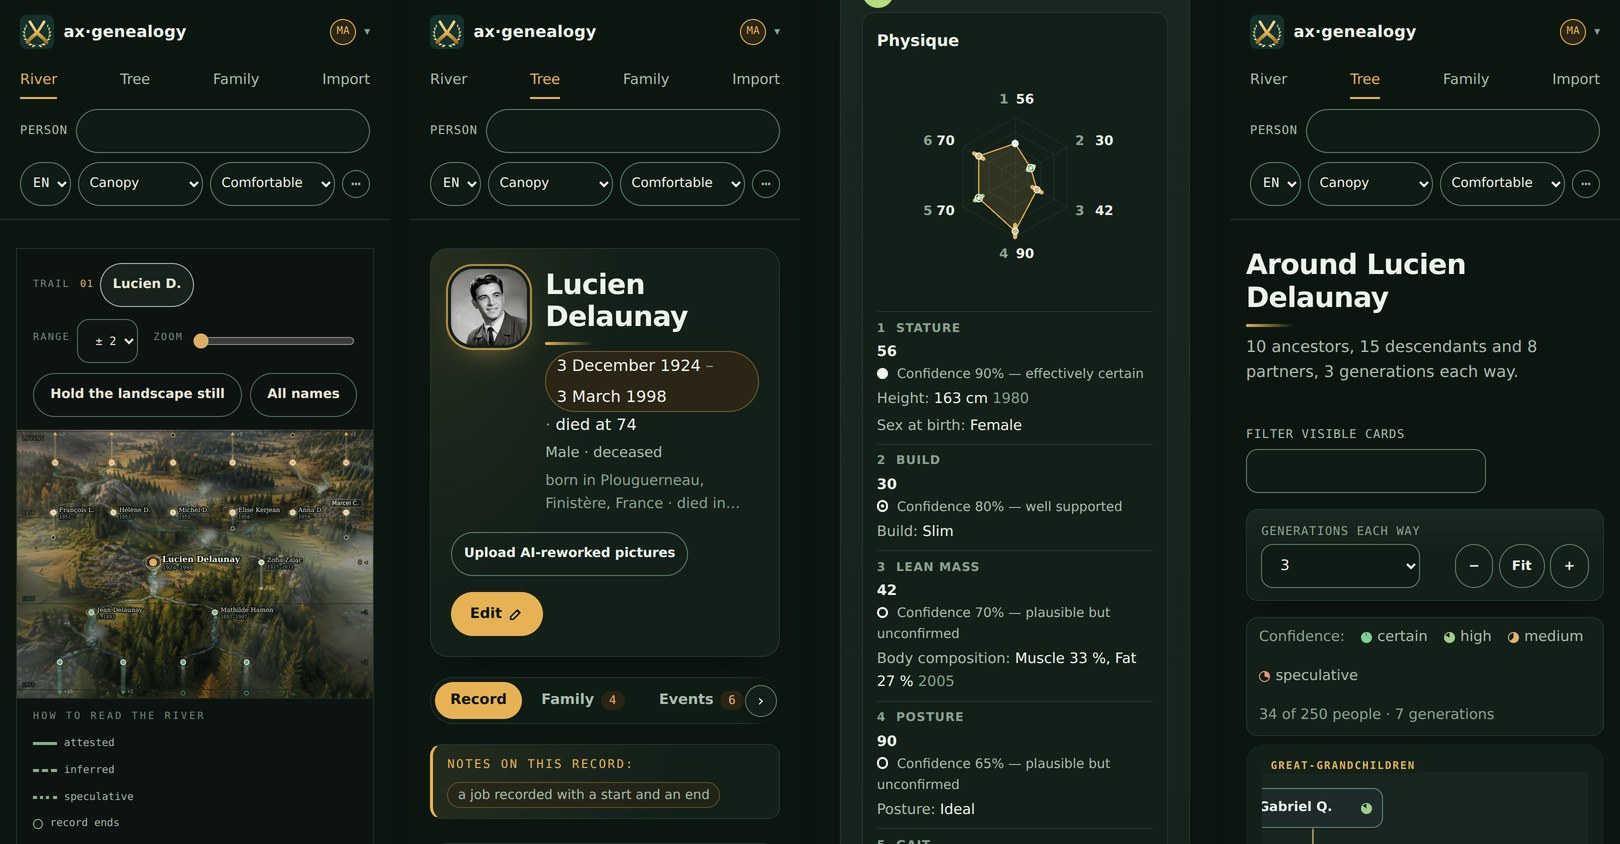
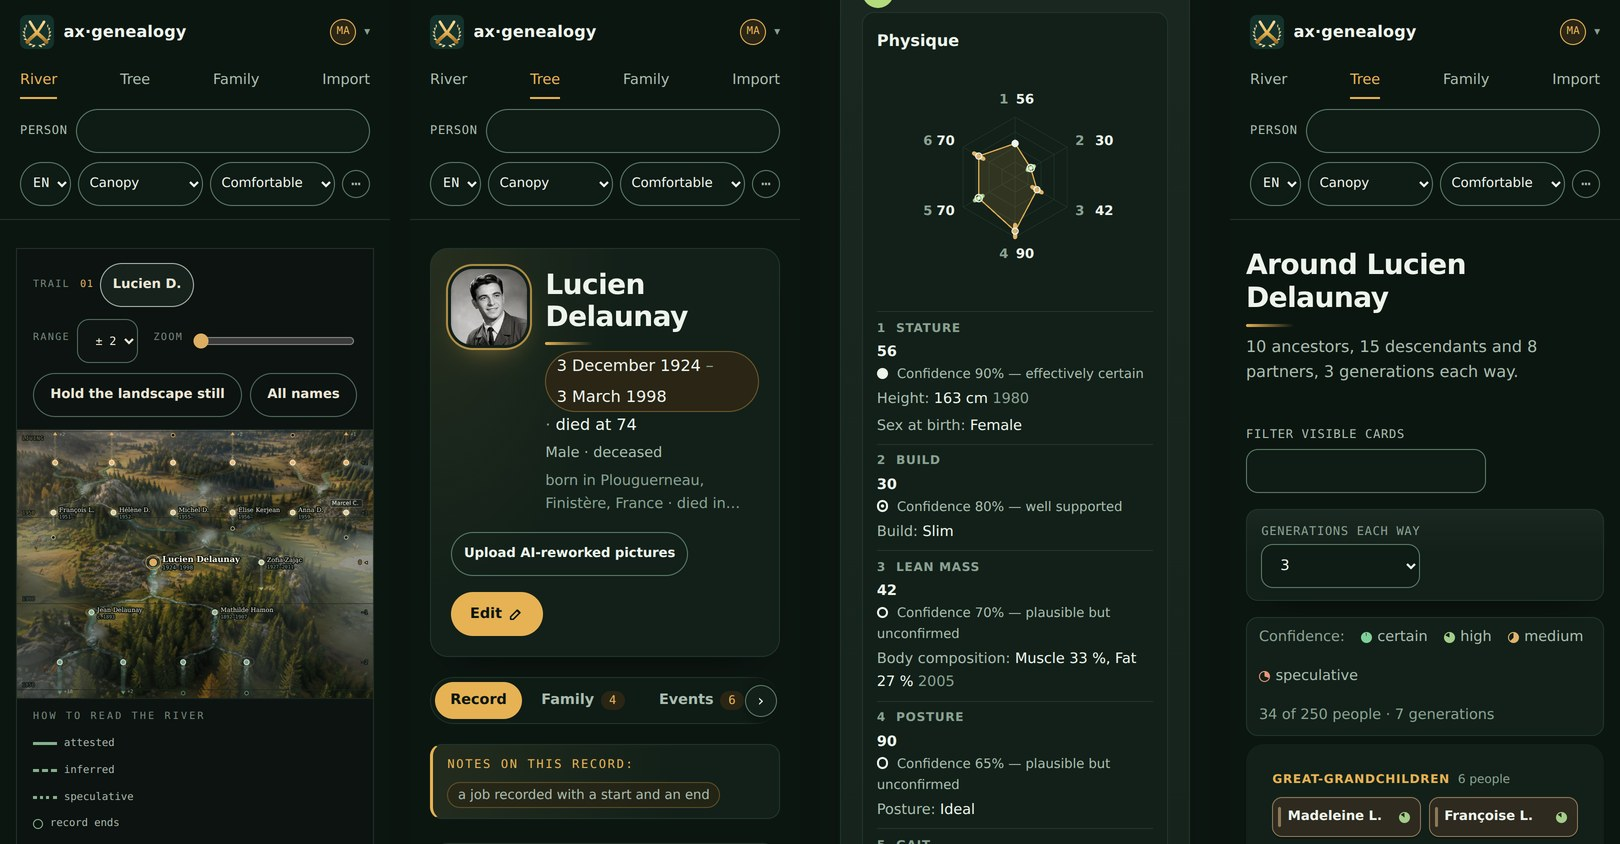
On a phone: the tree as a column of generations, and a tap on a person names them
The operator's review the same evening, on a phone: the tree ran off the
screen sideways, and the mesh could not be clicked.

- The tree page under 640 px (docs/adr/0019 §6). The chart drops its
  lines, zones and column of names, and becomes a column of generations:
  each one a block with its name and count, its cards two to a line, the
  person's own block outlined. Nothing scrolls sideways. An open card is
  a sheet at the foot of the screen, and the zoom is hidden. On a wide
  screen each generation's `.tree-row` is display: contents, so the chart
  is unchanged.
- Every view, on a touch screen (docs/adr/0002 §6). A first tap on a
  person used to light their route only, which looked like nothing
  happening. Now their full name and years also show under the drawing,
  with "Centre here" and "Open full page" (the second hidden for a person
  the reader may not see). The bar stays at the foot of the screen while
  the drawing is in view. A second tap still travels, and a tap on open
  water or any travel puts the bar away. New words: river-pick-centre in
  the fourteen languages.
- README: the phone sheet shows the tree's column.

Changed region(s): [[0.7716, 0.8934, 0.9877, 1.0], [0.9259, 0.6469, 0.9568, 0.6777]]

diff --git a/static/app.css b/static/app.css
@@ -1512,19 +1512,71 @@ abbr.presumed { text-decoration: none; }
   -webkit-backdrop-filter: blur(6px);
   backdrop-filter: blur(6px);
 }
-/* On a phone the row names are small tags above their rows, not a column
-   that would hide a third of the screen. */
+/* A generation's block (_tree_canvas.html): no box at all on a wide
+   screen, where every card stands where the layout put it. */
+.tree-row { display: contents; }
+.tree-row-name { display: none; }
+/* A phone (the operator's review, 2026-10-27: the tree ran off the screen
+   sideways). The chart becomes a column of generations, the newest at the
+   top and the oldest at the foot as the chart has them, the person's own
+   in the middle. Its lines, zones and column of names give way to each
+   block's own name; the cards stand two to a line and the canvas takes the
+   column's width, so nothing scrolls sideways. An open card is a sheet at
+   the foot of the screen. */
 @media (max-width: 640px) {
-  .tree-gutter .band-label.relative {
-    block-size: auto !important;
-    inline-size: auto;
-    max-inline-size: 70vw;
-    flex-direction: row;
-    padding: 0.12rem 0.55rem;
-    transform: translateY(-30px);
-    white-space: nowrap;
+  .tree-scroll {
+    position: static;
+    overflow: visible;
+    will-change: auto;
+    padding-bottom: 0;
   }
-  .tree-gutter .band-label.relative span { display: none; }
+  .tree-scroll .tree-canvas {
+    inline-size: auto !important;
+    block-size: auto !important;
+    display: flex;
+    flex-direction: column;
+    gap: 0.6rem;
+  }
+  .tree-canvas :is(.tree-wires, .band-zone, .tree-gutter),
+  .tree-canvas > .band-label { display: none; }
+  .tree-row {
+    display: grid;
+    grid-template-columns: repeat(2, minmax(0, 1fr));
+    gap: 0.5rem;
+    padding: 0.6rem 0.65rem 0.7rem;
+    border: 1px solid var(--border);
+    border-radius: 14px;
+    background: color-mix(in srgb, var(--surface-raised) 55%, transparent);
+  }
+  .tree-row.is-centre { border-color: color-mix(in srgb, var(--accent) 55%, var(--border)); }
+  .tree-row-name {
+    display: flex;
+    flex-wrap: wrap;
+    align-items: baseline;
+    gap: 0.15rem 0.5rem;
+    grid-column: 1 / -1;
+    margin: 0;
+    font-size: var(--type-label);
+    letter-spacing: 0.06em;
+    text-transform: uppercase;
+    color: var(--text-tertiary);
+  }
+  .tree-row-name strong { color: var(--accent); font-weight: var(--weight-semi); }
+  .tree-row-name .muted { letter-spacing: 0; text-transform: none; }
+  .tree-row .tcard {
+    position: relative;
+    inset: auto !important;
+    inline-size: auto !important;
+    width: auto !important;
+  }
+  .tree-row .tcard .tc-more,
+  .tree-row .tcard:is(:hover, :focus-within, .is-open) .tc-more {
+    position: fixed;
+    inset: auto 12px 12px 12px !important;
+    inline-size: auto;
+    transform: none !important;
+  }
+  .tc-zoom { display: none; }
 }
 .tc-zoom { display: flex; gap: 0.35rem; align-items: flex-end; margin-inline-start: auto; }
 .tc-zoom .btn { min-inline-size: 2.4rem; }
@@ -4179,6 +4231,27 @@ input::placeholder, textarea::placeholder { color: var(--text-tertiary); opacity
 .rv-canvas { flex: 0 0 auto; }
 .rv-canvas svg { display: block; }
 .rv-canvas .rv-p { cursor: pointer; }
+/* The person a tap looked at (river.js, 2026-10-27): named under the
+   drawing with the two ways on, kept at the foot of the screen while the
+   drawing above it is in view. */
+.rv-pick {
+  position: sticky;
+  inset-block-end: 0;
+  z-index: 5;
+  display: flex;
+  flex-wrap: wrap;
+  align-items: center;
+  justify-content: space-between;
+  gap: 0.5rem 0.75rem;
+  padding: 0.7rem 0.9rem;
+  background: var(--surface-raised);
+  border-block-start: 1px solid var(--border-strong);
+  box-shadow: 0 -12px 26px -20px rgb(var(--shadow-rgb) / 0.7);
+}
+.rv-pick-who { margin: 0; min-inline-size: 0; }
+.rv-pick-who strong { font-weight: var(--weight-semi); color: var(--text-primary); }
+.rv-pick-years { color: var(--text-secondary); font-size: var(--type-small); font-variant-numeric: tabular-nums; }
+.rv-pick-go { display: flex; flex-wrap: wrap; gap: 0.5rem; }
 /* The drawing's inks. src/river.rs (and river.js, its port for frames in
    motion) mark each non-water colour with a class; the colours themselves
    are the river's palette in tokens.css. */

diff --git a/static/river.js b/static/river.js
@@ -754,6 +754,8 @@
     n = n || cur.layout.meta.n;
     if (busy || (id === cur.layout.meta.centre && n === cur.layout.meta.n)) return;
     busy = true;
+    // A person a tap looked at is no longer the one in question.
+    if (pick) { pick.hidden = true; picked = null; looked = null; }
     // Where the river is going, ripples (the reference's loader), if the
     // answer is slow enough to be waited for. The first frame of the travel
     // takes them away.
@@ -891,6 +893,29 @@
   // route from the centre and shows their dropped label — and a second tap
   // on the same person travels there. A tap on open water clears it.
   var looked = null;
+  // What the tap looked at, named under the drawing with the two ways on
+  // (2026-10-27): centre the drawing on them, or open their record.
+  var pick = root.querySelector('[data-rv-pick]'), picked = null;
+  var pickName = pick && pick.querySelector('[data-rv-pick-name]'), pickYears = pick && pick.querySelector('[data-rv-pick-years]');
+  var pickCentre = pick && pick.querySelector('[data-rv-pick-centre]'), pickOpen = pick && pick.querySelector('[data-rv-pick-open]');
+  function showPick(id) {
+    picked = id;
+    if (!pick) return;
+    var p = id && here.persons.filter(function (q) { return q.id === id; })[0];
+    if (!p) { pick.hidden = true; return; }
+    var s = p.s || {};
+    pickName.textContent = s.redacted ? privateWord : (s.names && s.names[2]) || '';
+    pickYears.textContent = s.redacted ? '' : s.years || '';
+    pickOpen.hidden = !!s.redacted;
+    pickOpen.setAttribute('href', '/person/' + encodeURIComponent(id));
+    pick.hidden = false;
+  }
+  if (pickCentre) pickCentre.addEventListener('click', function () {
+    var id = picked;
+    looked = null;
+    showPick(null);
+    if (id) travel(id);
+  });
   canvas.addEventListener('click', function (e) {
     // The click a drag or a pinch ends with is not a choice of person.
     if (performance.now() - dragged < 400) { e.preventDefault(); return; }
@@ -898,16 +923,18 @@
     var id = a ? a.getAttribute('data-id') : touch ? nearest(e) : null;
     if (touch && !busy) {
       e.preventDefault();
-      if (!id) { looked = null; light(null); return; }
+      if (!id) { looked = null; light(null); showPick(null); return; }
       if (id !== looked) {
         looked = id;
         var p = here.persons.filter(function (q) { return q.id === id; })[0];
         light(a ? a.getAttribute('data-key') : p && p.key);
+        showPick(id);
         return;
       }
     }
     if (!id) return;
     looked = null;
+    showPick(null);
     e.preventDefault(); travel(id);
   });
   // Hover is a mouse's (or a pen's): a finger's taps are handled above, and

diff --git a/templates/river.html b/templates/river.html
@@ -100,6 +100,17 @@
     {% endif %}
     <div class="rv-canvas" id="rv-canvas" data-content>{{ svg|safe }}
     </div>
+    {#- On a touch screen a first tap on a person looks at them: their route
+        is lit, and here, under the drawing, their name and the two ways on
+        (2026-10-27) — a finger has no hover, and a lit route alone looked
+        like nothing happening. river.js fills it and shows it. -#}
+    <div class="rv-pick" data-rv-pick hidden>
+      <p class="rv-pick-who"><strong data-rv-pick-name></strong> <span class="rv-pick-years" data-rv-pick-years></span></p>
+      <div class="rv-pick-go">
+        <button type="button" class="btn small" data-rv-pick-centre>{{ t("river-pick-centre") }}</button>
+        <a class="btn small" data-rv-pick-open href="/person/{{ centre_q }}">{{ t("record-open-full-page") }}</a>
+      </div>
+    </div>
 
     <div class="rv-legend" role="note" aria-labelledby="rv-legend-title">
       {#- A cartographer's legend (v0.5.0, docs/adr/0004 §5): a title, the

diff --git a/templates/_tree_canvas.html b/templates/_tree_canvas.html
@@ -62,6 +62,13 @@
         <span class="muted">{{ band.sublabel }}</span>
       </div>
       {%- endif %}
+      {#- The generation's people. On a wide screen this box is no box at all
+          (display: contents) and every card stands where the layout put it;
+          on a phone it is the generation's block, its name over its cards
+          two to a line, and the page no longer scrolls sideways
+          (2026-10-27). -#}
+      <div class="tree-row{% if band.relative == 0 %} is-centre{% endif %}">
+        <p class="tree-row-name" aria-hidden="true"><strong>{{ band.label }}</strong> <span class="muted">{{ band.sublabel }}</span></p>
       {% for c in band.cards %}
       {% if c.restricted %}
       {# A person this reader may not read keeps their place in the tree, so
@@ -117,6 +124,7 @@
       </div>
       {% endif %}
       {% endfor %}
+      </div>
     {% endfor %}
 
   </div>

diff --git a/static/tree.js b/static/tree.js
@@ -378,6 +378,9 @@ function axgfTreeZoom() {
   var canvas = document.getElementById('tree-canvas');
   var scroll = document.querySelector('.tree-scroll');
   if (!box || !canvas || !scroll) return;
+  // On a phone the chart is a column of generations (app.css): nothing to
+  // zoom, and a size remembered from a wide screen would only shrink it.
+  if (window.matchMedia && matchMedia('(max-width: 640px)').matches) { canvas.style.zoom = ''; return; }
   box.hidden = false;
   var z = 1;
   try { z = parseFloat(localStorage.getItem('axgf-tree-zoom')) || 1; } catch (e) { /* private window */ }

diff --git a/README.md b/README.md
@@ -112,7 +112,7 @@ Nothing moves while the river is off screen.
 
 | Zoom in, and the names keep their size, as on a map | On a phone: the river, a record, its charts, the tree |
 |---|---|
-| [![The river zoomed in around Hélène Delaunay, born 1952: her line and her cousins' lines as streams and rivers in the valley, in clearings through the forest, with their pools and white water, wild horses grazing beside her river, the forest and the rocks in detail; her photograph in the record beside it](docs/screenshots/river-zoom.jpg)](docs/screenshots/river-zoom.jpg) | [![Four phone screens: the river on its valley with its range, zoom and pause button; Lucien Delaunay's record; Zofia Zając's physique chart and its table; the tree around Lucien as a family chart, its rows named in small tags](docs/screenshots/mobile.jpg)](docs/screenshots/mobile.jpg) |
+| [![The river zoomed in around Hélène Delaunay, born 1952: her line and her cousins' lines as streams and rivers in the valley, in clearings through the forest, with their pools and white water, wild horses grazing beside her river, the forest and the rocks in detail; her photograph in the record beside it](docs/screenshots/river-zoom.jpg)](docs/screenshots/river-zoom.jpg) | [![Four phone screens: the river on its valley with its range, zoom and pause button; Lucien Delaunay's record; Zofia Zając's physique chart and its table; the tree around Lucien as a column of generations, each block named, two cards to a line](docs/screenshots/mobile.jpg)](docs/screenshots/mobile.jpg) |
 
 The river reaches 2, 3 or 5 generations each way. To zoom from 1× to 3×,
 use Ctrl (⌘) and the wheel, a trackpad, two fingers, the slider, or the `+`,

diff --git a/docs/adr/0019-the-tree-page-as-a-classic-chart.md b/docs/adr/0019-the-tree-page-as-a-classic-chart.md
@@ -69,7 +69,17 @@ kit to be drawn in Canva first.
 5. **The chart's size is the reader's.** Smaller, larger or fitted to the
    column, applied with CSS `zoom` so the cards stay on their lines, and
    remembered from one visit to the next.
-6. **The kit was drawn first.** The card, folded and open, the laurel ring,
+6. **On a phone, a column of generations** (the operator's review the same
+   evening: the tree ran off the screen sideways). Under 640 px the chart
+   has no lines, zones or name column. Each generation is a block with its
+   name and its count, its cards two to a line, the newest at the top and
+   the oldest at the foot, the person's own block outlined in the accent.
+   Nothing scrolls sideways. An open card is a sheet at the foot of the
+   screen, and the zoom is hidden. The markup is the same: each
+   generation's cards sit in a `.tree-row`, which on a wide screen is no
+   box at all (`display: contents`), so every card stands where the layout
+   put it.
+7. **The kit was drawn first.** The card, folded and open, the laurel ring,
    the union node and the row labels were drawn in Canva (2026-10-27). The
    laurel ring is served as `static/img/laurel-ring.png`, white on
    transparent at 256 px, and used as a mask.

diff --git a/CHANGELOG.md b/CHANGELOG.md
@@ -22,6 +22,13 @@ about the AXGF file, the server's river or what a reader may see changes.
   laurel ring, the full name, the dates, and two actions: centre the tree
   on the person, or open their record. The chart can be made smaller,
   larger or fitted to the column. The kit was drawn in Canva first.
+- **On a phone** (the operator's review the same evening).
+  - The tree page is a column of generations, with no sideways scroll.
+    Each generation is a block with its name, its cards two to a line, and
+    an open card is a sheet at the foot of the screen (docs/adr/0019 §6).
+  - In every view, a first tap on a person names them under the drawing,
+    with "Centre here" and "Open full page"; before, it only lit their
+    route (docs/adr/0002 §6).
 - **Clarity: rings apart, names on the glass** (docs/adr/0013 §6).
   - The funnel is wider and finer: one ring of tinted glass per generation,
     with the rings set apart.

diff --git a/docs/adr/0002-study-06-is-the-default-theme.md b/docs/adr/0002-study-06-is-the-default-theme.md
@@ -130,6 +130,16 @@ there, and a tap on open water clears the selection.
 **Deviation from Study 06.** The study reveals labels and lights the route on
 hover only, and a tablet has no hover.
 
+**Amended 2026-10-27 (the operator's review, on a phone: "the mesh cannot
+be clicked").** A lit route alone looked like nothing happening. The first
+tap now also names the person under the drawing: their full name and
+years, and two ways on, "Centre here" (travel) and "Open full page" (their
+record, absent for a person this reader may not see). The bar stays at the
+foot of the screen while the drawing is in view (`.rv-pick`, river.js). A
+second tap on the same person still travels; a tap on open water, or any
+travel, puts the bar away. It holds under every view, since `river.js`
+owns every touch rule.
+
 ## 7. Reading and editing are two modes
 
 These changes come from the minimalism pass. They are not deviations from
